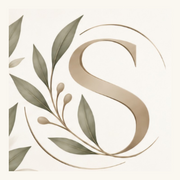
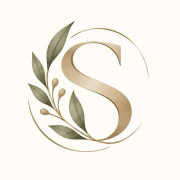
Complete the official Shiloh brand rollout

diff --git a/src/services/publicWebsite.js b/src/services/publicWebsite.js
@@ -3,7 +3,12 @@ const {
   SHILOH_PUBLIC_LOCATION,
   SHILOH_TOWN_CENTRE_NEIGHBOURS,
 } = require('../config/heidelbergGuide');
-const { PUBLIC_CHROME_CSS, renderSiteHeader, renderSiteFooter } = require('./publicSiteChrome');
+const {
+  PUBLIC_BRAND_ASSET_VERSION,
+  PUBLIC_CHROME_CSS,
+  renderSiteHeader,
+  renderSiteFooter,
+} = require('./publicSiteChrome');
 const {
   PUBLIC_BRAND_NAME,
   PUBLIC_BRAND_SUBTITLE,
@@ -23,7 +28,7 @@ function escapeHtml(value = '') {
 
 const SITE_CSS = `
 :root{--ink:#24352f;--muted:#53625c;--cream:#f7f3eb;--paper:#fff;--sage:#dce8da;--deep:#294b3e;--line:#dce2dd;--gold:#8a662f;--shadow:0 18px 50px rgba(36,53,47,.1)}*{box-sizing:border-box}html{scroll-behavior:smooth;background:var(--cream)}body{margin:0;color:var(--ink);background:var(--cream);font-family:Inter,ui-sans-serif,system-ui,-apple-system,BlinkMacSystemFont,"Segoe UI",sans-serif;line-height:1.5}a{color:inherit}.shell{width:min(1180px,calc(100% - 40px));margin:auto}.eyebrow{text-transform:uppercase;letter-spacing:.17em;font-size:11px;font-weight:850;color:var(--gold)}h1,h2,h3{font-family:Georgia,"Times New Roman",serif;font-weight:500;letter-spacing:-.028em}h1{font-size:clamp(48px,6vw,78px);line-height:.98;margin:14px 0 20px}h2{font-size:clamp(34px,4vw,50px);line-height:1.04;margin:8px 0 14px}h3{font-size:24px;line-height:1.15;margin:0 0 10px}.lede{font-size:18px;color:var(--muted);max-width:690px}.actions{display:flex;flex-wrap:wrap;gap:10px;margin-top:27px}.button{min-height:48px;display:inline-flex;align-items:center;justify-content:center;padding:12px 19px;border-radius:12px;text-decoration:none;font-weight:850;border:1px solid var(--deep)}.button.primary{background:var(--deep);color:#fff}.button.secondary{background:transparent;color:var(--deep)}.home-hero{padding:62px 0 58px}.home-hero-grid{display:grid;grid-template-columns:1.03fr .97fr;gap:42px;align-items:center}.hero-visual{min-height:500px;border-radius:30px;overflow:hidden;position:relative;background:linear-gradient(180deg,rgba(20,36,30,.04),rgba(20,36,30,.58)),url('/assets/booking/treatment-room-side.webp') center/cover;box-shadow:var(--shadow)}.hero-visual-card{position:absolute;left:22px;right:22px;bottom:22px;padding:20px;border-radius:18px;background:rgba(247,243,235,.93);backdrop-filter:blur(12px)}.hero-visual-card p{margin:7px 0 0;color:var(--muted);font-size:14px}.section{padding:58px 0}.section.alt{background:#edf2eb;border-block:1px solid rgba(36,53,47,.06)}.section-head{display:flex;justify-content:space-between;align-items:end;gap:32px;margin-bottom:25px}.section-head p{max-width:610px;color:var(--muted);margin:0}.grid{display:grid;grid-template-columns:repeat(3,minmax(0,1fr));gap:16px}.card{background:var(--paper);border:1px solid rgba(36,53,47,.08);border-radius:20px;padding:22px;box-shadow:0 6px 22px rgba(36,53,47,.04)}.card p{color:var(--muted);font-size:14px}.meta{display:flex;flex-wrap:wrap;gap:8px;margin:12px 0}.pill{background:#f1f4ef;border-radius:999px;padding:6px 9px;font-size:12px;font-weight:800}.pill.price{background:#e4eee1;color:var(--deep)}.card-link{display:inline-flex;margin-top:10px;font-weight:850;color:var(--deep);text-decoration:none}.story{display:grid;grid-template-columns:.8fr 1.2fr;gap:38px;align-items:center}.story-image{min-height:330px;border-radius:24px;background:url('/assets/booking/pedicure-side.webp') center/cover;box-shadow:var(--shadow)}.story p{color:var(--muted);font-size:17px}.page-hero{padding:64px 0 48px}.page-hero .shell{max-width:1180px}.category{padding:31px 0;border-top:1px solid var(--line)}.category:first-child{border-top:0}.category-label{display:flex;align-items:baseline;justify-content:space-between;gap:20px;margin-bottom:16px}.category-label h2{font-size:34px}.category-label small{color:var(--muted)}.fact-grid{display:grid;grid-template-columns:repeat(3,1fr);gap:14px}.fact{border-radius:18px;padding:20px;background:rgba(255,255,255,.68);border:1px solid rgba(36,53,47,.07)}.fact strong{display:block;margin-bottom:6px}.fact span{color:var(--muted);font-size:14px}.signature{padding:38px 0;background:#5f584f;color:#fff}.signature-copy{width:min(1180px,calc(100% - 40px));margin:auto;text-align:center;padding:30px;border:1px solid rgba(255,255,255,.18);border-radius:22px;background:rgba(255,255,255,.04)}.signature-copy .eyebrow{color:#ead6a9}.signature-copy h2{margin:8px 0 10px}.signature-copy p{margin:0;color:#eee7dc}.prose{max-width:790px}.prose p{color:var(--muted);font-size:17px}.contact-panel{display:grid;grid-template-columns:repeat(3,minmax(0,1fr));gap:18px}.contact-panel .card{min-height:210px}.contact-email{font-size:clamp(24px,2.7vw,38px);overflow-wrap:anywhere}.contact-email a{text-decoration-thickness:1px;text-underline-offset:4px}.client-portal{padding:14px 0 58px}.client-portal-card{display:grid;grid-template-columns:minmax(0,1fr) auto;align-items:center;gap:28px;padding:28px 30px;border-radius:24px;background:linear-gradient(135deg,#edf2eb,#fff);border:1px solid rgba(36,53,47,.09);box-shadow:0 10px 30px rgba(36,53,47,.06)}.client-portal-card h2{margin:7px 0 9px}.client-portal-card p{margin:0;color:var(--muted);max-width:700px}.client-portal-card small{display:block;margin-top:9px;color:#68766f;font-size:12px}.client-portal-card .button{white-space:nowrap}.mobile-book{display:none}${PUBLIC_CHROME_CSS}
-.welcome-offer{background:linear-gradient(90deg,#354f42,#496354);color:#fff;border-bottom:1px solid rgba(255,255,255,.16)}.welcome-offer .shell{display:flex;align-items:center;justify-content:center;gap:18px;min-height:54px;padding-block:8px}.welcome-offer__copy{display:flex;align-items:baseline;gap:10px}.welcome-offer strong{font-family:Georgia,"Times New Roman",serif;font-size:20px}.welcome-offer span{font-size:13px;color:#f4efe6}.welcome-offer a{padding:8px 13px;border-radius:999px;background:#fff;color:var(--deep);font-size:12px;font-weight:900;text-decoration:none;white-space:nowrap}.category-discovery-grid{display:grid;grid-template-columns:repeat(auto-fit,minmax(245px,1fr));gap:16px}.category-discovery-card{display:flex;min-width:0;flex-direction:column;overflow:hidden;border:1px solid rgba(36,53,47,.1);border-radius:22px;background:#fff;box-shadow:0 8px 28px rgba(36,53,47,.055)}.category-discovery-card__visual{min-height:172px;background-color:#e8ece6;background-position:center;background-size:cover}.category-discovery-card__visual--massage{background-image:linear-gradient(rgba(25,47,39,.08),rgba(25,47,39,.22)),url('/assets/booking/treatment-room-side.webp')}.category-discovery-card__visual--foot{background-image:linear-gradient(rgba(25,47,39,.06),rgba(25,47,39,.18)),url('/assets/booking/pedicure-side.webp');background-position:center 58%}.category-discovery-card__visual--aesthetic,.category-discovery-card__visual--other{background-color:#eee9dd;background-image:radial-gradient(circle at 82% 18%,rgba(138,102,47,.16),transparent 32%),linear-gradient(145deg,rgba(255,255,255,.72),rgba(220,232,218,.56)),url('/assets/brand/shiloh-mark-512.png');background-position:center,center,center;background-repeat:no-repeat;background-size:auto,auto,136px}.category-discovery-card__body{display:flex;flex:1;flex-direction:column;padding:21px}.category-discovery-card__top{display:flex;align-items:start;justify-content:space-between;gap:14px}.category-discovery-card__top h3{margin:0}.category-count{flex:0 0 auto;border-radius:999px;background:#edf2eb;color:var(--deep);padding:5px 8px;font-size:11px;font-weight:850}.category-discovery-card p{margin:10px 0 14px;color:var(--muted);font-size:14px}.category-examples{display:grid;gap:5px;list-style:none;margin:0;padding:0;color:#40534a;font-size:12px}.category-examples li::before{content:"·";margin-right:7px;color:var(--gold);font-weight:900}.category-more{display:block;margin-top:7px;color:#68766f;font-size:11px}.category-discovery-card .card-link{margin-top:auto;padding-top:17px}.service-category-nav{display:flex;flex-wrap:wrap;gap:8px;margin:0 0 26px;padding:12px;border:1px solid rgba(36,53,47,.08);border-radius:18px;background:rgba(255,255,255,.72)}.service-category-nav a{display:inline-flex;min-height:42px;align-items:center;border:1px solid var(--line);border-radius:999px;background:#fff;padding:8px 12px;color:var(--deep);font-size:12px;font-weight:800;text-decoration:none}.service-category-nav a:hover,.service-category-nav a:focus-visible{border-color:var(--deep);box-shadow:0 0 0 2px rgba(41,75,62,.1)}.category{scroll-margin-top:108px}.category-intro{max-width:650px;margin:0 0 18px;color:var(--muted)}.local-story{display:grid;grid-template-columns:.78fr 1.22fr;gap:0;border-radius:26px;overflow:hidden;background:var(--deep);color:#fff;box-shadow:var(--shadow)}.local-story__image{min-height:470px;background:url('/assets/booking/pedicure-side.webp') center/cover}.local-story__copy{display:flex;flex-direction:column;justify-content:center;padding:42px}.local-story__copy .eyebrow{color:#ead6a9}.local-story__copy h2{max-width:660px}.local-story__copy p{margin:0 0 15px;color:#e5eee9;font-size:16px}.local-story__copy .button.primary{background:#fff;color:var(--deep);border-color:#fff}.local-story__copy .button.secondary{color:#fff;border-color:rgba(255,255,255,.65)}.neighbour-list{display:flex;flex-wrap:wrap;gap:8px;list-style:none;margin:10px 0 3px;padding:0}.neighbour-list li{padding:7px 10px;border:1px solid rgba(255,255,255,.22);border-radius:999px;background:rgba(255,255,255,.08);font-size:12px;font-weight:750}.local-story__note{display:block;margin-top:11px;color:#cbd8d2;font-size:11px}.community-intro{max-width:900px;text-align:center}.community-intro p{max-width:760px;margin:0 auto;color:var(--muted);font-size:17px}.community-intro .actions{justify-content:center}.community-intro .neighbour-list{justify-content:center;margin-top:22px}.community-intro .neighbour-list li{border-color:var(--line);background:#fff;color:var(--ink)}
+.welcome-offer{background:linear-gradient(90deg,#354f42,#496354);color:#fff;border-bottom:1px solid rgba(255,255,255,.16)}.welcome-offer .shell{display:flex;align-items:center;justify-content:center;gap:18px;min-height:54px;padding-block:8px}.welcome-offer__copy{display:flex;align-items:baseline;gap:10px}.welcome-offer strong{font-family:Georgia,"Times New Roman",serif;font-size:20px}.welcome-offer span{font-size:13px;color:#f4efe6}.welcome-offer a{padding:8px 13px;border-radius:999px;background:#fff;color:var(--deep);font-size:12px;font-weight:900;text-decoration:none;white-space:nowrap}.category-discovery-grid{display:grid;grid-template-columns:repeat(auto-fit,minmax(245px,1fr));gap:16px}.category-discovery-card{display:flex;min-width:0;flex-direction:column;overflow:hidden;border:1px solid rgba(36,53,47,.1);border-radius:22px;background:#fff;box-shadow:0 8px 28px rgba(36,53,47,.055)}.category-discovery-card__visual{min-height:172px;background-color:#e8ece6;background-position:center;background-size:cover}.category-discovery-card__visual--massage{background-image:linear-gradient(rgba(25,47,39,.08),rgba(25,47,39,.22)),url('/assets/booking/treatment-room-side.webp')}.category-discovery-card__visual--foot{background-image:linear-gradient(rgba(25,47,39,.06),rgba(25,47,39,.18)),url('/assets/booking/pedicure-side.webp');background-position:center 58%}.category-discovery-card__visual--aesthetic,.category-discovery-card__visual--other{background-color:#eee9dd;background-image:radial-gradient(circle at 82% 18%,rgba(138,102,47,.16),transparent 32%),linear-gradient(145deg,rgba(255,255,255,.72),rgba(220,232,218,.56)),url('/assets/brand/shiloh-mark-512.png?v=${PUBLIC_BRAND_ASSET_VERSION}');background-position:center,center,center;background-repeat:no-repeat;background-size:auto,auto,136px}.category-discovery-card__body{display:flex;flex:1;flex-direction:column;padding:21px}.category-discovery-card__top{display:flex;align-items:start;justify-content:space-between;gap:14px}.category-discovery-card__top h3{margin:0}.category-count{flex:0 0 auto;border-radius:999px;background:#edf2eb;color:var(--deep);padding:5px 8px;font-size:11px;font-weight:850}.category-discovery-card p{margin:10px 0 14px;color:var(--muted);font-size:14px}.category-examples{display:grid;gap:5px;list-style:none;margin:0;padding:0;color:#40534a;font-size:12px}.category-examples li::before{content:"·";margin-right:7px;color:var(--gold);font-weight:900}.category-more{display:block;margin-top:7px;color:#68766f;font-size:11px}.category-discovery-card .card-link{margin-top:auto;padding-top:17px}.service-category-nav{display:flex;flex-wrap:wrap;gap:8px;margin:0 0 26px;padding:12px;border:1px solid rgba(36,53,47,.08);border-radius:18px;background:rgba(255,255,255,.72)}.service-category-nav a{display:inline-flex;min-height:42px;align-items:center;border:1px solid var(--line);border-radius:999px;background:#fff;padding:8px 12px;color:var(--deep);font-size:12px;font-weight:800;text-decoration:none}.service-category-nav a:hover,.service-category-nav a:focus-visible{border-color:var(--deep);box-shadow:0 0 0 2px rgba(41,75,62,.1)}.category{scroll-margin-top:108px}.category-intro{max-width:650px;margin:0 0 18px;color:var(--muted)}.local-story{display:grid;grid-template-columns:.78fr 1.22fr;gap:0;border-radius:26px;overflow:hidden;background:var(--deep);color:#fff;box-shadow:var(--shadow)}.local-story__image{min-height:470px;background:url('/assets/booking/pedicure-side.webp') center/cover}.local-story__copy{display:flex;flex-direction:column;justify-content:center;padding:42px}.local-story__copy .eyebrow{color:#ead6a9}.local-story__copy h2{max-width:660px}.local-story__copy p{margin:0 0 15px;color:#e5eee9;font-size:16px}.local-story__copy .button.primary{background:#fff;color:var(--deep);border-color:#fff}.local-story__copy .button.secondary{color:#fff;border-color:rgba(255,255,255,.65)}.neighbour-list{display:flex;flex-wrap:wrap;gap:8px;list-style:none;margin:10px 0 3px;padding:0}.neighbour-list li{padding:7px 10px;border:1px solid rgba(255,255,255,.22);border-radius:999px;background:rgba(255,255,255,.08);font-size:12px;font-weight:750}.local-story__note{display:block;margin-top:11px;color:#cbd8d2;font-size:11px}.community-intro{max-width:900px;text-align:center}.community-intro p{max-width:760px;margin:0 auto;color:var(--muted);font-size:17px}.community-intro .actions{justify-content:center}.community-intro .neighbour-list{justify-content:center;margin-top:22px}.community-intro .neighbour-list li{border-color:var(--line);background:#fff;color:var(--ink)}
 @media(max-width:900px){.home-hero-grid,.story,.local-story{grid-template-columns:1fr}.client-portal-card{grid-template-columns:1fr;align-items:start}.hero-visual{min-height:340px}.local-story__image{min-height:300px}.grid,.fact-grid{grid-template-columns:repeat(2,minmax(0,1fr))}.contact-panel{grid-template-columns:1fr}}
 @media(max-width:700px){.welcome-offer .shell{align-items:flex-start;gap:9px;flex-direction:column;padding-block:10px}.welcome-offer__copy{display:block}.welcome-offer strong{margin-right:6px}.welcome-offer a{align-self:stretch;text-align:center}}
 @media(max-width:700px){body{padding-bottom:74px}.shell{width:calc(100% - 30px)}.home-hero,.page-hero{padding:42px 0 38px}.home-hero-grid{gap:26px}h1{font-size:46px}.lede{font-size:16px}.hero-visual{min-height:300px;border-radius:22px}.hero-visual-card{left:14px;right:14px;bottom:14px}.section{padding:40px 0}.section-head{display:block}.grid,.fact-grid{grid-template-columns:1fr}.category-discovery-grid{grid-template-columns:1fr}.category-discovery-card__visual{min-height:150px}.service-category-nav{flex-wrap:nowrap;overflow-x:auto;margin-right:-15px;padding-right:27px;scrollbar-width:none}.service-category-nav::-webkit-scrollbar{display:none}.service-category-nav a{flex:0 0 auto}.local-story{border-radius:20px}.local-story__image{min-height:235px}.local-story__copy{padding:28px 20px}.local-story__copy h2{font-size:34px}.neighbour-list{gap:6px}.neighbour-list li{padding:6px 8px;font-size:11px}.client-portal{padding:4px 0 40px}.client-portal-card{padding:22px 18px;border-radius:18px}.client-portal-card .button{width:100%}.category{padding:25px 0;scroll-margin-top:84px}.category-label{display:block}.category-label h2{font-size:30px}.button{width:100%}.signature{padding:24px 0}.signature-copy{width:calc(100% - 30px);padding:24px 18px;border-radius:16px}.mobile-book{position:fixed;z-index:35;display:flex;left:10px;right:10px;bottom:10px;min-height:54px;background:#fff;border:1px solid var(--line);border-radius:14px;box-shadow:0 10px 35px rgba(20,40,32,.22);align-items:center;justify-content:space-between;padding:9px 14px;text-decoration:none}.mobile-book span{font-size:11px;color:var(--muted)}.mobile-book strong{font-size:13px;color:var(--deep)}}
@@ -31,7 +36,7 @@ const SITE_CSS = `
 
 function layout({ title, description, currentPath, body }) {
   const canonical = `${PUBLIC_SITE_ORIGIN}${currentPath}`;
-  return `<!doctype html><html lang="en"><head><meta charset="utf-8"><meta name="viewport" content="width=device-width,initial-scale=1"><meta name="robots" content="index,follow"><meta name="description" content="${escapeHtml(description)}"><link rel="canonical" href="${canonical}"><link rel="icon" type="image/png" sizes="192x192" href="/assets/brand/shiloh-mark-192.png"><link rel="apple-touch-icon" sizes="180x180" href="/assets/brand/shiloh-apple-touch-180.png"><meta property="og:type" content="website"><meta property="og:title" content="${escapeHtml(title)} | Shiloh"><meta property="og:description" content="${escapeHtml(description)}"><meta property="og:url" content="${canonical}"><meta property="og:image" content="${PUBLIC_SITE_ORIGIN}/assets/brand/shiloh-logo-full.jpg"><title>${escapeHtml(title)} | Shiloh</title><style>${SITE_CSS}</style></head><body>${renderSiteHeader(currentPath)}<aside class="welcome-offer" aria-label="My Shiloh welcome offer"><div class="shell"><div class="welcome-offer__copy"><strong>R100 welcome voucher</strong><span>Complete your first My Shiloh registration to unlock it.</span></div><a href="/my-shiloh/#welcome-voucher">Claim my R100</a></div></aside>${body}${renderSiteFooter()}<a class="mobile-book" href="/book"><span>Ready when you are</span><strong>View services &amp; book →</strong></a></body></html>`;
+  return `<!doctype html><html lang="en"><head><meta charset="utf-8"><meta name="viewport" content="width=device-width,initial-scale=1"><meta name="robots" content="index,follow"><meta name="description" content="${escapeHtml(description)}"><link rel="canonical" href="${canonical}"><link rel="icon" type="image/png" sizes="192x192" href="/assets/brand/shiloh-mark-192.png?v=${PUBLIC_BRAND_ASSET_VERSION}"><link rel="apple-touch-icon" sizes="180x180" href="/assets/brand/shiloh-apple-touch-180.png?v=${PUBLIC_BRAND_ASSET_VERSION}"><meta property="og:type" content="website"><meta property="og:title" content="${escapeHtml(title)} | Shiloh"><meta property="og:description" content="${escapeHtml(description)}"><meta property="og:url" content="${canonical}"><meta property="og:image" content="${PUBLIC_SITE_ORIGIN}/assets/brand/shiloh-logo-full.jpg"><title>${escapeHtml(title)} | Shiloh</title><style>${SITE_CSS}</style></head><body>${renderSiteHeader(currentPath)}<aside class="welcome-offer" aria-label="My Shiloh welcome offer"><div class="shell"><div class="welcome-offer__copy"><strong>R100 welcome voucher</strong><span>Complete your first My Shiloh registration to unlock it.</span></div><a href="/my-shiloh/#welcome-voucher">Claim my R100</a></div></aside>${body}${renderSiteFooter()}<a class="mobile-book" href="/book"><span>Ready when you are</span><strong>View services &amp; book →</strong></a></body></html>`;
 }
 
 function serviceGroups(catalogue = []) {

diff --git a/src/services/publicSiteChrome.js b/src/services/publicSiteChrome.js
@@ -14,6 +14,8 @@ const NAV_ITEMS = [
   ['/book', 'Book'],
 ];
 
+const PUBLIC_BRAND_ASSET_VERSION = 'official-brand-v2';
+
 const PUBLIC_CHROME_CSS = `
 .skip-link{position:fixed;left:12px;top:-60px;z-index:100;background:#fff;color:#294b3e;padding:10px 14px;border-radius:10px;font-weight:800}.skip-link:focus{top:12px}.site-header{position:sticky;top:0;z-index:40;background:rgba(250,247,240,.96);backdrop-filter:blur(14px);border-bottom:1px solid rgba(36,53,47,.1);box-shadow:0 5px 22px rgba(36,53,47,.035)}.site-header-row{width:min(1180px,calc(100% - 40px));min-height:82px;margin:auto;display:flex;align-items:center;justify-content:space-between;gap:24px}.site-brand{display:flex;align-items:center;gap:11px;min-width:220px;text-decoration:none;color:#24352f}.site-brand-mark{display:block;width:58px;height:58px;flex:0 0 58px;border-radius:18px;object-fit:cover;box-shadow:0 7px 22px rgba(46,64,51,.1)}.site-brand-copy{display:flex;flex-direction:column;line-height:1}.site-brand-name{font-family:Georgia,"Times New Roman",serif;font-size:29px;font-weight:500;letter-spacing:-.04em;color:#6e5a40}.site-brand-subtitle{margin-top:6px;color:#53625c;font-size:8px;font-weight:850;letter-spacing:.12em;text-transform:uppercase;white-space:nowrap}.site-nav{display:flex;align-items:center;gap:3px}.site-nav a{padding:10px 11px;border-radius:999px;text-decoration:none;font-size:13px;font-weight:750}.site-nav a:hover,.site-nav a:focus-visible,.site-nav a[aria-current="page"]{background:#dce8da;color:#294b3e}.site-nav .site-client{background:rgba(255,255,255,.72);border:1px solid #cbd6cf;color:#294b3e;padding-inline:15px}.site-nav .site-client:hover,.site-nav .site-client:focus-visible{background:#edf2eb;border-color:#b8c7be}.site-nav .site-book{background:#294b3e;color:#fff;padding-inline:17px}.site-nav .site-book:hover,.site-nav .site-book:focus-visible,.site-nav .site-book[aria-current="page"]{background:#1f3b30;color:#fff}.mobile-nav{display:none;position:relative}.mobile-nav summary{list-style:none;cursor:pointer;border:1px solid #cad4ce;border-radius:999px;padding:9px 13px;font-weight:800}.mobile-nav summary::-webkit-details-marker{display:none}.mobile-nav-panel{position:absolute;right:0;top:48px;min-width:220px;padding:8px;background:#fff;border:1px solid #dce2dd;border-radius:15px;box-shadow:0 14px 36px rgba(36,53,47,.16)}.mobile-nav-panel a{display:block;text-decoration:none;padding:11px 12px;border-radius:10px;font-weight:750}.mobile-nav-panel a[aria-current="page"]{background:#dce8da}.mobile-nav-panel .mobile-client{margin:4px 0;background:#edf2eb;border:1px solid #d7e1da}.mobile-nav-panel .mobile-client span,.mobile-nav-panel .mobile-client small{display:block}.mobile-nav-panel .mobile-client small{margin-top:2px;color:#68766f;font-size:10px;font-weight:650;letter-spacing:.01em}.site-footer{position:relative;overflow:hidden;background:#294b3e;color:#fff;padding:54px 0 34px}.site-footer::after{content:"";position:absolute;right:-95px;bottom:-125px;width:310px;height:310px;border:1px solid rgba(233,214,169,.14);border-radius:50%;box-shadow:0 0 0 42px rgba(233,214,169,.035),0 0 0 88px rgba(233,214,169,.025);pointer-events:none}.site-footer-row{position:relative;z-index:1;width:min(1180px,calc(100% - 40px));margin:auto;display:grid;grid-template-columns:minmax(310px,1.45fr) 1fr 1fr;gap:42px}.site-footer-brand{display:grid;grid-template-columns:86px minmax(0,1fr);align-items:center;gap:18px}.site-footer-mark{display:block;width:86px;height:86px;border-radius:24px;object-fit:cover;box-shadow:0 10px 28px rgba(8,20,15,.2)}.site-footer-name{display:block;font-family:Georgia,"Times New Roman",serif;font-size:33px;font-weight:500;letter-spacing:-.04em;color:#f3e9d7}.site-footer-subtitle{display:block;margin-top:6px;color:#dce7e1;font-size:10px;font-weight:800;letter-spacing:.13em;text-transform:uppercase}.site-footer-tagline{margin-top:12px!important;color:#ead6a9!important;font-family:Georgia,"Times New Roman",serif;font-size:17px!important}.site-footer-heading{display:block;color:#fff;font-size:12px;font-weight:850;letter-spacing:.14em;text-transform:uppercase}.site-footer p,.site-footer a{color:#dce7e1;font-size:13px}.site-footer p{margin:10px 0 0;line-height:1.75}.site-footer a{text-decoration-thickness:1px;text-underline-offset:3px}.site-footer a:hover,.site-footer a:focus-visible{color:#fff}.site-footer-note{grid-column:1/-1;margin-top:2px!important;padding-top:22px;border-top:1px solid rgba(255,255,255,.14);color:#bfcfc7!important;font-size:11px!important}.signature-copy .eyebrow{color:#fff}@media(max-width:1030px){.site-header-row{gap:14px}.site-brand{min-width:auto}.site-brand-subtitle{display:none}.site-nav a{padding-inline:9px;font-size:12px}}@media(max-width:760px){.site-header-row{width:calc(100% - 30px);min-height:72px}.site-brand{gap:9px}.site-brand-mark{width:50px;height:50px;flex-basis:50px;border-radius:15px}.site-brand-name{font-size:26px}.site-brand-subtitle{display:block;font-size:7px;letter-spacing:.08em}.site-nav{display:none}.mobile-nav{display:block}.site-footer{padding:42px 0 28px}.site-footer-row{width:calc(100% - 30px);grid-template-columns:1fr;gap:27px}.site-footer-brand{grid-template-columns:72px 1fr}.site-footer-mark{width:72px;height:72px;border-radius:20px}.site-footer-name{font-size:29px}.site-footer-note{grid-column:auto;margin-top:0!important}}@media(max-width:390px){.site-brand-subtitle{display:none}}
 `;
@@ -38,11 +40,17 @@ function renderLinks(currentPath, className = 'site-nav') {
 }
 
 function renderSiteHeader(currentPath) {
-  return `<a class="skip-link" href="#main-content">Skip to content</a><header class="site-header"><div class="site-header-row"><a class="site-brand" href="/" aria-label="Shiloh home"><img class="site-brand-mark" src="/assets/brand/shiloh-mark-192.png" alt="" width="192" height="192"><span class="site-brand-copy"><strong class="site-brand-name">${PUBLIC_BRAND_NAME}</strong><small class="site-brand-subtitle">${PUBLIC_BRAND_SUBTITLE}</small></span></a>${renderLinks(currentPath)}<details class="mobile-nav"><summary>Menu</summary><div class="mobile-nav-panel">${renderLinks(currentPath, 'mobile-nav-links')}</div></details></div></header>`;
+  return `<a class="skip-link" href="#main-content">Skip to content</a><header class="site-header"><div class="site-header-row"><a class="site-brand" href="/" aria-label="Shiloh home"><img class="site-brand-mark" src="/assets/brand/shiloh-mark-192.png?v=${PUBLIC_BRAND_ASSET_VERSION}" alt="" width="192" height="192"><span class="site-brand-copy"><strong class="site-brand-name">${PUBLIC_BRAND_NAME}</strong><small class="site-brand-subtitle">${PUBLIC_BRAND_SUBTITLE}</small></span></a>${renderLinks(currentPath)}<details class="mobile-nav"><summary>Menu</summary><div class="mobile-nav-panel">${renderLinks(currentPath, 'mobile-nav-links')}</div></details></div></header>`;
 }
 
 function renderSiteFooter() {
-  return `<footer class="site-footer"><div class="site-footer-row"><div><div class="site-footer-brand"><img class="site-footer-mark" src="/assets/brand/shiloh-mark-192.png" alt="" width="192" height="192"><div><strong class="site-footer-name">${PUBLIC_BRAND_NAME}</strong><span class="site-footer-subtitle">${PUBLIC_BRAND_SUBTITLE}</span><p class="site-footer-tagline">${PUBLIC_TAGLINE}</p></div></div></div><div><strong class="site-footer-heading">Visit Shiloh</strong><p>37 Jacobs Street<br>Heidelberg, Gauteng<br><a href="/contact">Contact &amp; directions</a><br><a href="/visit">Explore Heidelberg</a></p></div><div><strong class="site-footer-heading">Appointments</strong><p><a href="/book">View services and book</a><br><a href="/my-shiloh/">Open My Shiloh</a><br><a href="mailto:info@shilohmtc.co.za">Email Shiloh</a><br><a href="/privacy">Privacy policy</a></p></div><p class="site-footer-note">Personal massage and aesthetic services in Heidelberg. Availability is confirmed when Shiloh completes your booking.</p></div></footer>`;
+  return `<footer class="site-footer"><div class="site-footer-row"><div><div class="site-footer-brand"><img class="site-footer-mark" src="/assets/brand/shiloh-mark-192.png?v=${PUBLIC_BRAND_ASSET_VERSION}" alt="" width="192" height="192"><div><strong class="site-footer-name">${PUBLIC_BRAND_NAME}</strong><span class="site-footer-subtitle">${PUBLIC_BRAND_SUBTITLE}</span><p class="site-footer-tagline">${PUBLIC_TAGLINE}</p></div></div></div><div><strong class="site-footer-heading">Visit Shiloh</strong><p>37 Jacobs Street<br>Heidelberg, Gauteng<br><a href="/contact">Contact &amp; directions</a><br><a href="/visit">Explore Heidelberg</a></p></div><div><strong class="site-footer-heading">Appointments</strong><p><a href="/book">View services and book</a><br><a href="/my-shiloh/">Open My Shiloh</a><br><a href="mailto:info@shilohmtc.co.za">Email Shiloh</a><br><a href="/privacy">Privacy policy</a></p></div><p class="site-footer-note">Personal massage and aesthetic services in Heidelberg. Availability is confirmed when Shiloh completes your booking.</p></div></footer>`;
 }
 
-module.exports = { NAV_ITEMS, PUBLIC_CHROME_CSS, renderSiteHeader, renderSiteFooter };
+module.exports = {
+  NAV_ITEMS,
+  PUBLIC_BRAND_ASSET_VERSION,
+  PUBLIC_CHROME_CSS,
+  renderSiteHeader,
+  renderSiteFooter,
+};

diff --git a/tests/public-website-v1.test.js b/tests/public-website-v1.test.js
@@ -11,7 +11,10 @@ const {
   renderPrivacy,
 } = require('../src/services/publicWebsite');
 const { renderBookingPage } = require('../src/services/publicBookingPageEditorial');
-const { renderSiteHeader } = require('../src/services/publicSiteChrome');
+const {
+  PUBLIC_BRAND_ASSET_VERSION,
+  renderSiteHeader,
+} = require('../src/services/publicSiteChrome');
 
 const catalogue = [
   {
@@ -153,6 +156,20 @@ test('home leads with the Heidelberg location and shared brand chrome', () => {
   assert.match(html, /class="site-brand-mark"/);
   assert.match(html, /class="site-footer-mark"/);
   assert.match(html, /Contact &amp; directions/);
+  assert.match(html, new RegExp(`shiloh-mark-192\\.png\\?v=${PUBLIC_BRAND_ASSET_VERSION}`));
+});
+
+test('public website brand assets exactly match the approved installed-app artwork', () => {
+  const asset = (...segments) => fs.readFileSync(path.join(__dirname, '..', ...segments));
+  const pairs = [
+    [['public', 'assets', 'brand', 'shiloh-mark-192.png'], ['public', 'assets', 'pwa', 'shiloh-pwa-192.png']],
+    [['public', 'assets', 'brand', 'shiloh-mark-512.png'], ['public', 'assets', 'pwa', 'shiloh-pwa-512.png']],
+    [['public', 'assets', 'brand', 'shiloh-mark-maskable-512.png'], ['public', 'assets', 'pwa', 'shiloh-pwa-maskable-512.png']],
+    [['public', 'assets', 'brand', 'shiloh-apple-touch-180.png'], ['public', 'assets', 'pwa', 'shiloh-apple-touch-180.png']],
+  ];
+  for (const [publicAsset, approvedAsset] of pairs) {
+    assert.deepEqual(asset(...publicAsset), asset(...approvedAsset), publicAsset.join('/'));
+  }
 });
 
 test('Visit and the assistant use direct accommodation sources without Hello Heidelberg', () => {

diff --git a/tests/shiloh-ux-foundations.test.js b/tests/shiloh-ux-foundations.test.js
@@ -9,12 +9,32 @@ test('#862 UX tokens preserve the standing Phone/Desktop boundary and touch targ
   assert.equal(SHILOH_UX_TOKENS.breakpoint.desktopMin, '701px');
   assert.equal(SHILOH_UX_TOKENS.touch.minTarget, '44px');
   assert.ok(SHILOH_UX_TOKENS.staffAccentPalette.length >= 5);
+  assert.deepEqual(
+    {
+      deepGreen: SHILOH_UX_TOKENS.color.brandDeepGreen,
+      warmGold: SHILOH_UX_TOKENS.color.brandWarmGold,
+      sageDeep: SHILOH_UX_TOKENS.color.brandSageDeep,
+      sageSoft: SHILOH_UX_TOKENS.color.brandSageSoft,
+      surfaceIvory: SHILOH_UX_TOKENS.color.brandSurfaceIvory,
+      iconCanvas: SHILOH_UX_TOKENS.color.brandIconCanvas,
+    },
+    {
+      deepGreen: '#17382d',
+      warmGold: '#b99972',
+      sageDeep: '#747b62',
+      sageSoft: '#969982',
+      surfaceIvory: '#f9f6f0',
+      iconCanvas: '#fffcf7',
+    },
+  );
 
   const css = shilohUxTokenCss();
   assert.match(css, /--shiloh-phone-max:700px/);
   assert.match(css, /--shiloh-desktop-min:701px/);
   assert.match(css, /--shiloh-touch-min:44px/);
   assert.match(css, /--shiloh-focus:/);
+  assert.match(css, /--shiloh-brand-deep-green:#17382d/);
+  assert.match(css, /--shiloh-brand-icon-canvas:#fffcf7/);
 });
 
 test('#862 canonical icon vocabulary is Lucide-backed and server-renderable', () => {

diff --git a/src/presentation/shilohUxTokens.js b/src/presentation/shilohUxTokens.js
@@ -25,6 +25,12 @@ const SHILOH_UX_TOKENS = Object.freeze({
     raised: '0 10px 28px rgba(28, 49, 40, 0.12)',
   }),
   color: Object.freeze({
+    brandDeepGreen: '#17382d',
+    brandWarmGold: '#b99972',
+    brandSageDeep: '#747b62',
+    brandSageSoft: '#969982',
+    brandSurfaceIvory: '#f9f6f0',
+    brandIconCanvas: '#fffcf7',
     ink: '#203129',
     inkMuted: '#66766e',
     border: '#dce5df',
@@ -64,6 +70,12 @@ function shilohUxTokenCss() {
     `--shiloh-radius-pill:${t.radius.pill};\n` +
     `--shiloh-shadow-soft:${t.shadow.soft};\n` +
     `--shiloh-shadow-raised:${t.shadow.raised};\n` +
+    `--shiloh-brand-deep-green:${t.color.brandDeepGreen};\n` +
+    `--shiloh-brand-warm-gold:${t.color.brandWarmGold};\n` +
+    `--shiloh-brand-sage-deep:${t.color.brandSageDeep};\n` +
+    `--shiloh-brand-sage-soft:${t.color.brandSageSoft};\n` +
+    `--shiloh-brand-surface-ivory:${t.color.brandSurfaceIvory};\n` +
+    `--shiloh-brand-icon-canvas:${t.color.brandIconCanvas};\n` +
     `--shiloh-ink:${t.color.ink};\n` +
     `--shiloh-ink-muted:${t.color.inkMuted};\n` +
     `--shiloh-border:${t.color.border};\n` +

diff --git a/stories/Foundations.stories.js b/stories/Foundations.stories.js
@@ -36,6 +36,21 @@ export const SemanticColours = {
     </div>`),
 };
 
+export const OfficialBrandColours = {
+  render: () => {
+    const brandColours = Object.entries(SHILOH_UX_TOKENS.color)
+      .filter(([name]) => name.startsWith('brand'));
+    return shell(`
+      <h2>Official brand colours</h2>
+      <p>The approved logo values remain identical in light and dark mode. Icon canvas ivory is reserved for the app icon and matching launch background.</p>
+      <div class="grid">
+        ${brandColours.map(([name, value]) => `
+          <div class="card"><div class="swatch" style="background:${value}"></div><div class="token-name">${name}</div><div class="token-value">${value}</div></div>
+        `).join('')}
+      </div>`);
+  },
+};
+
 export const StaffAccentPalette = {
   render: () => shell(`
     <h2>Unassigned staff accent palette</h2>
